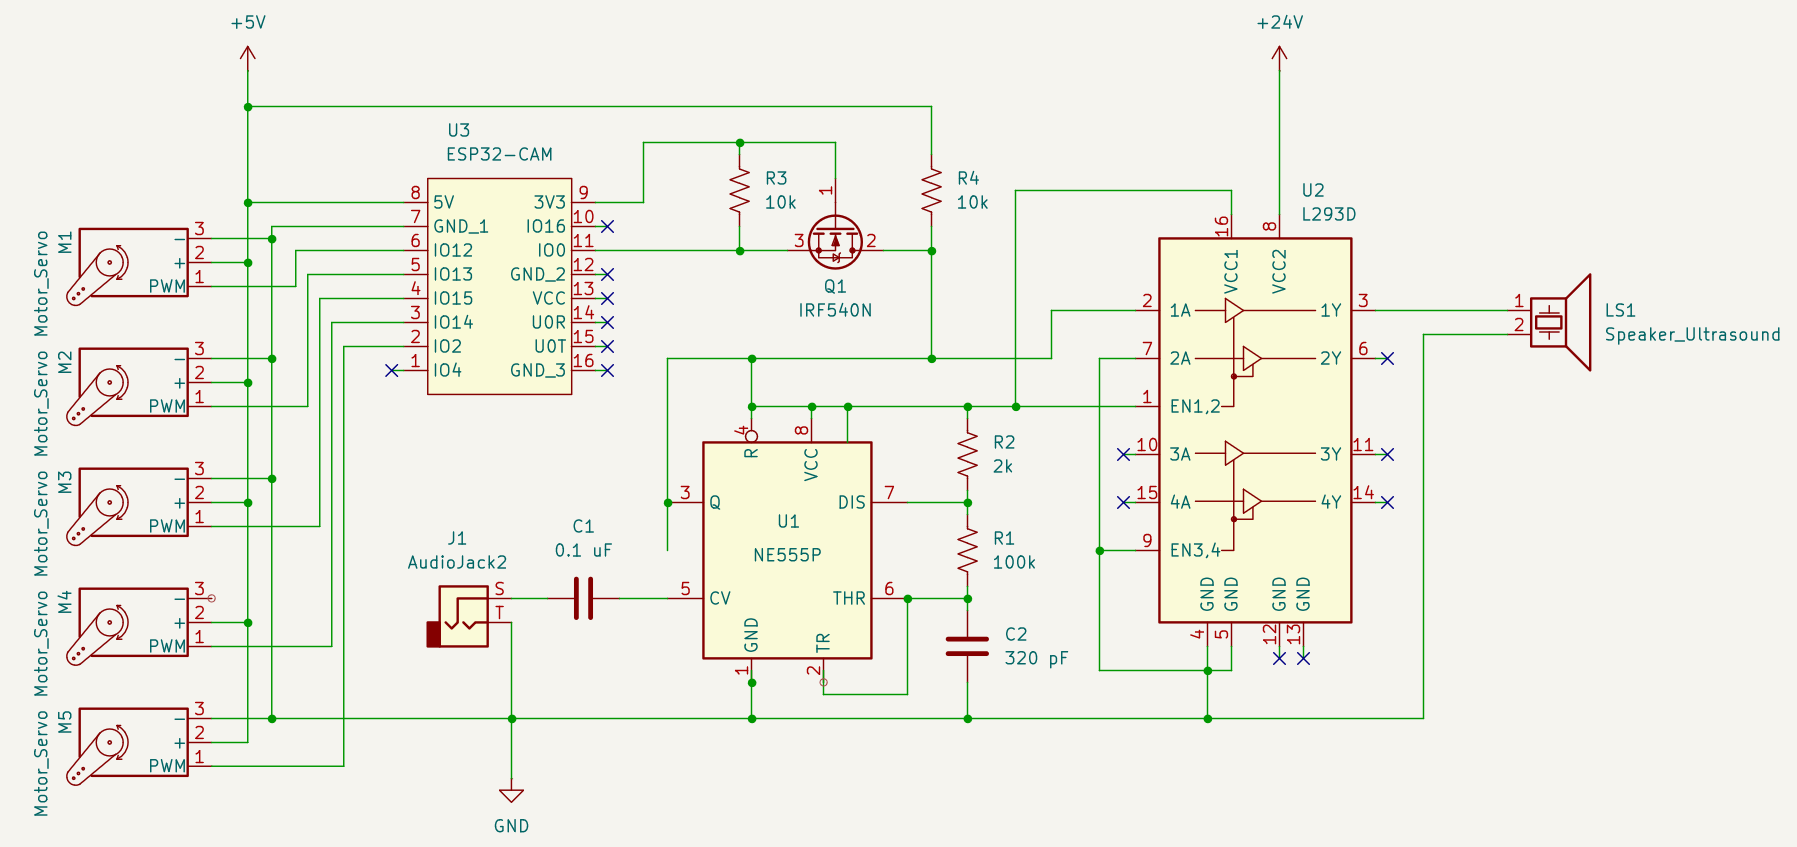
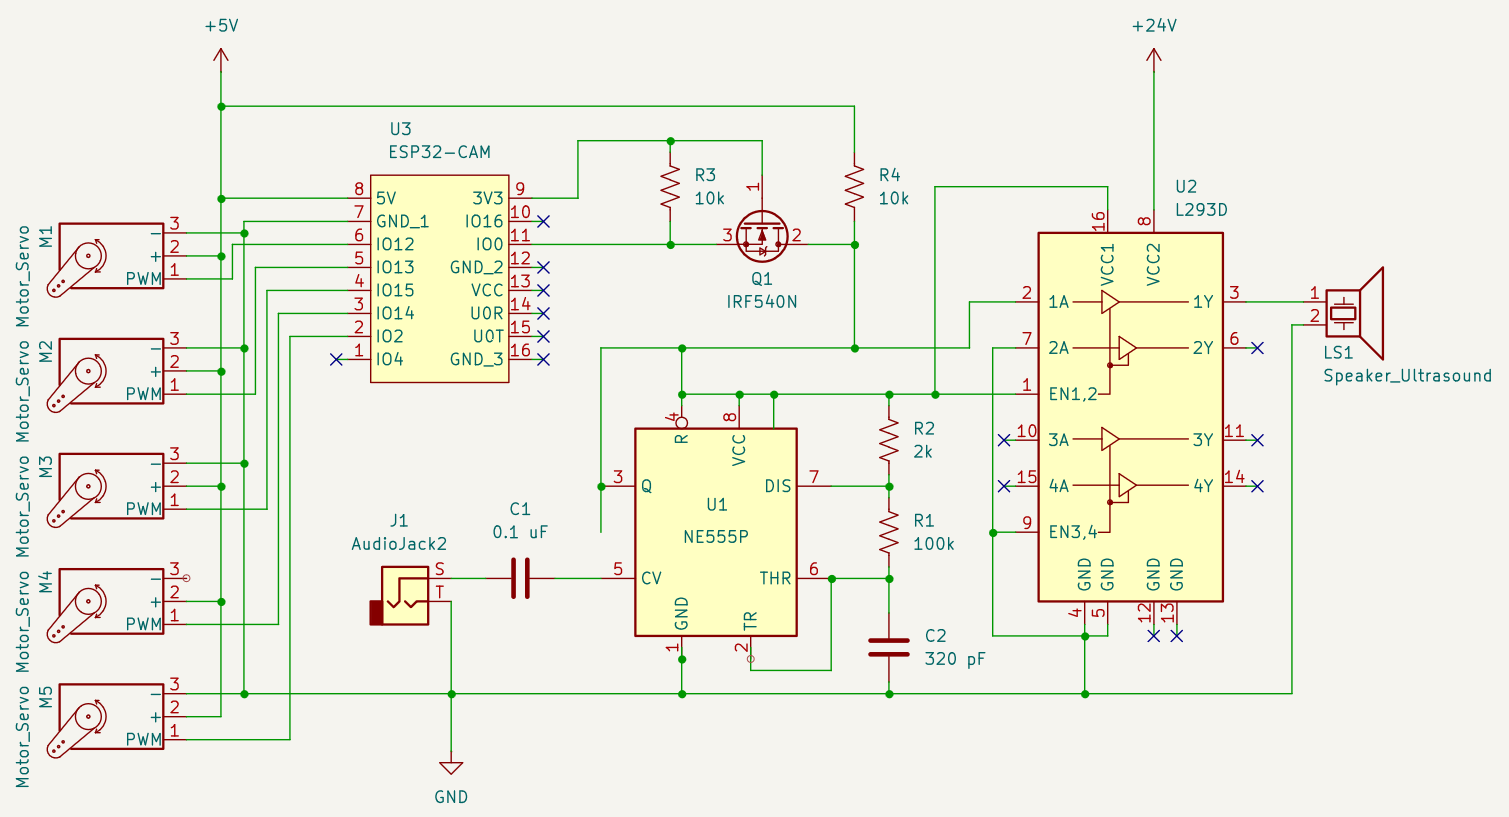
Updated circuit diagram

Changed region(s): [[0.0, 0.1224, 0.9967, 0.9792], [0.1246, 0.0, 0.1557, 0.0918], [0.7475, 0.0306, 0.7787, 0.0612]]

diff --git a/esp32-tasks/README.md b/esp32-tasks/README.md
@@ -67,4 +67,4 @@ There 4 are main tasks performed by the ESP32 CAM:
 - Use the IP address of the ESP32 CAM and the port no. to run the TCP client for angle transfer in `../tcp-socket-client`
 
 ## Wiring Diagram for the ESP32 CAM
-![Smart-Scarecrow-Circuit](https://github.com/risb21/smart-scarecrow/assets/65121903/01050425-0a3c-41c4-b720-579907cbcecc)
+![Smart-Scarecrow-Circuit](https://github.com/risb21/smart-scarecrow/assets/65121903/1569a289-b58c-4c79-893c-da46f1075303)
